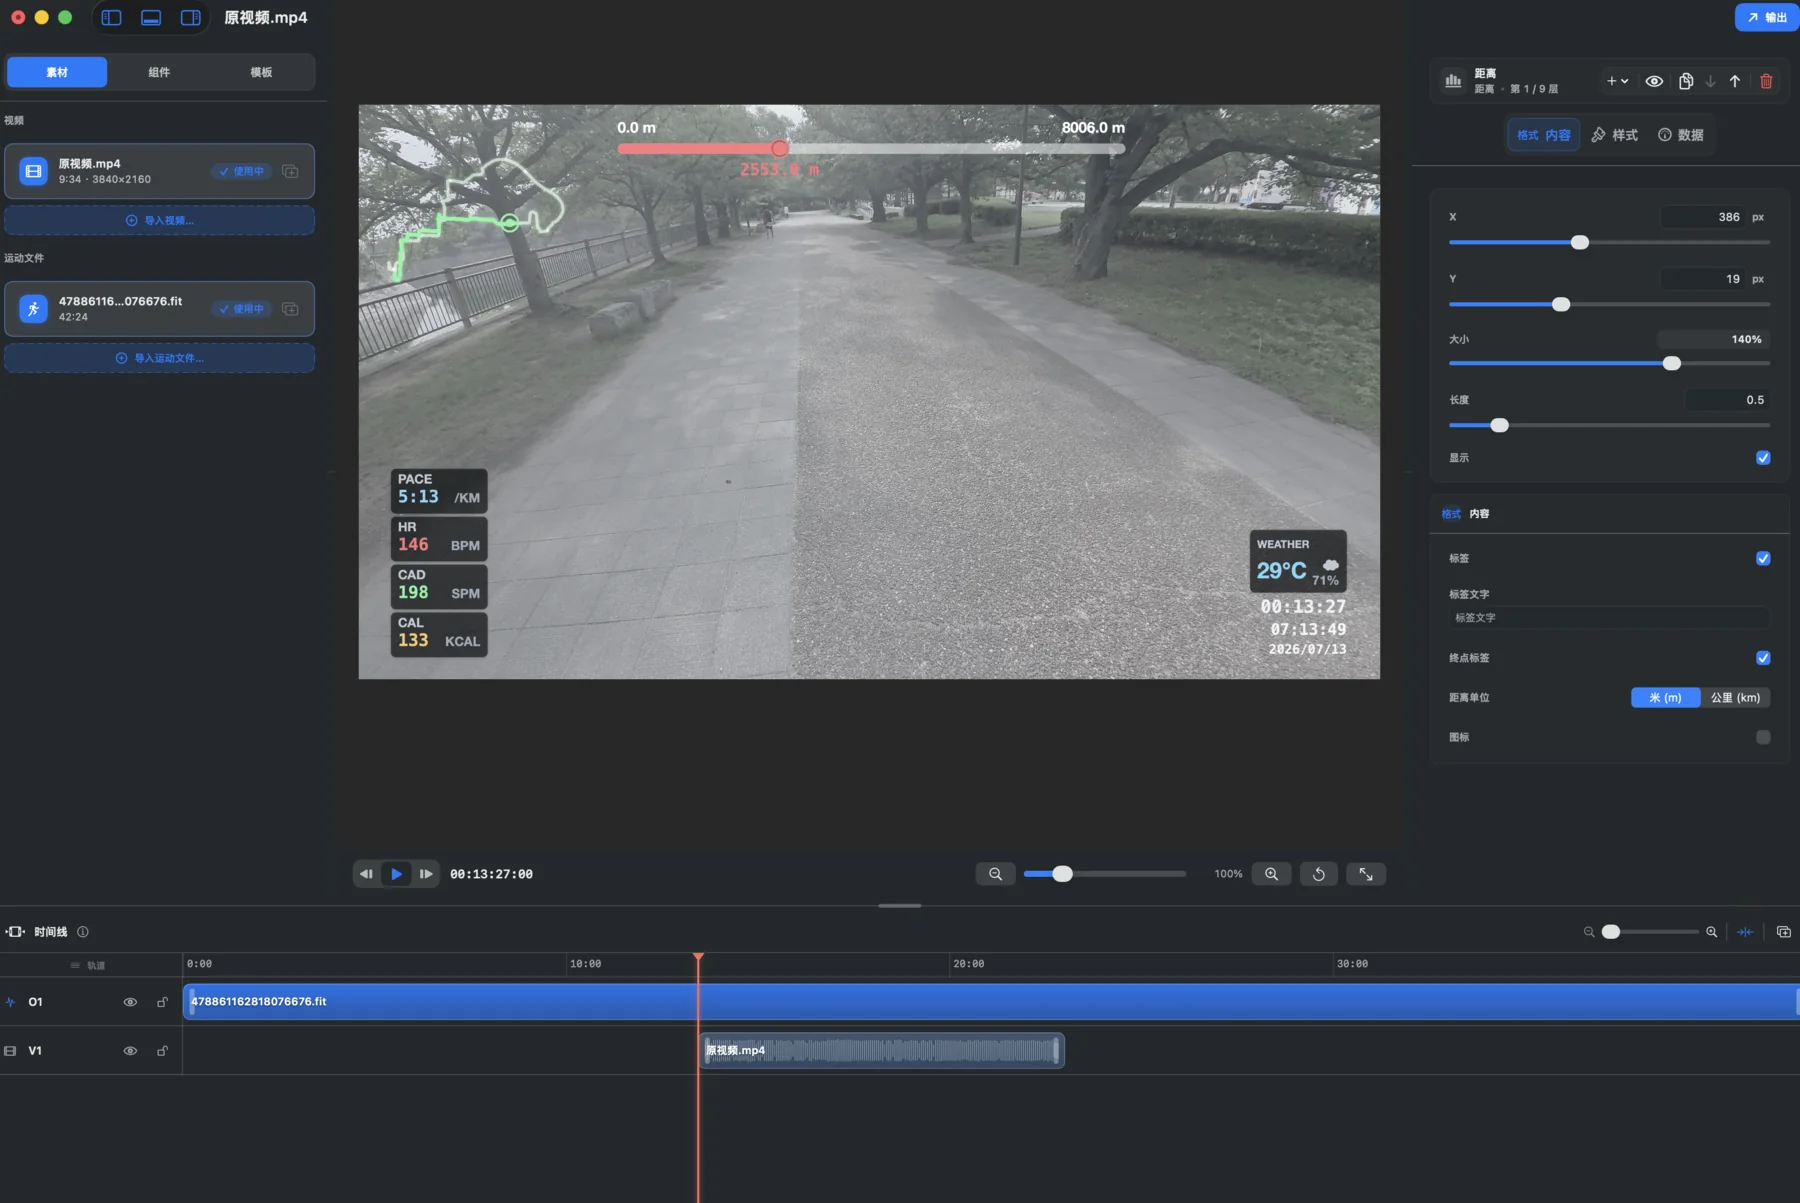
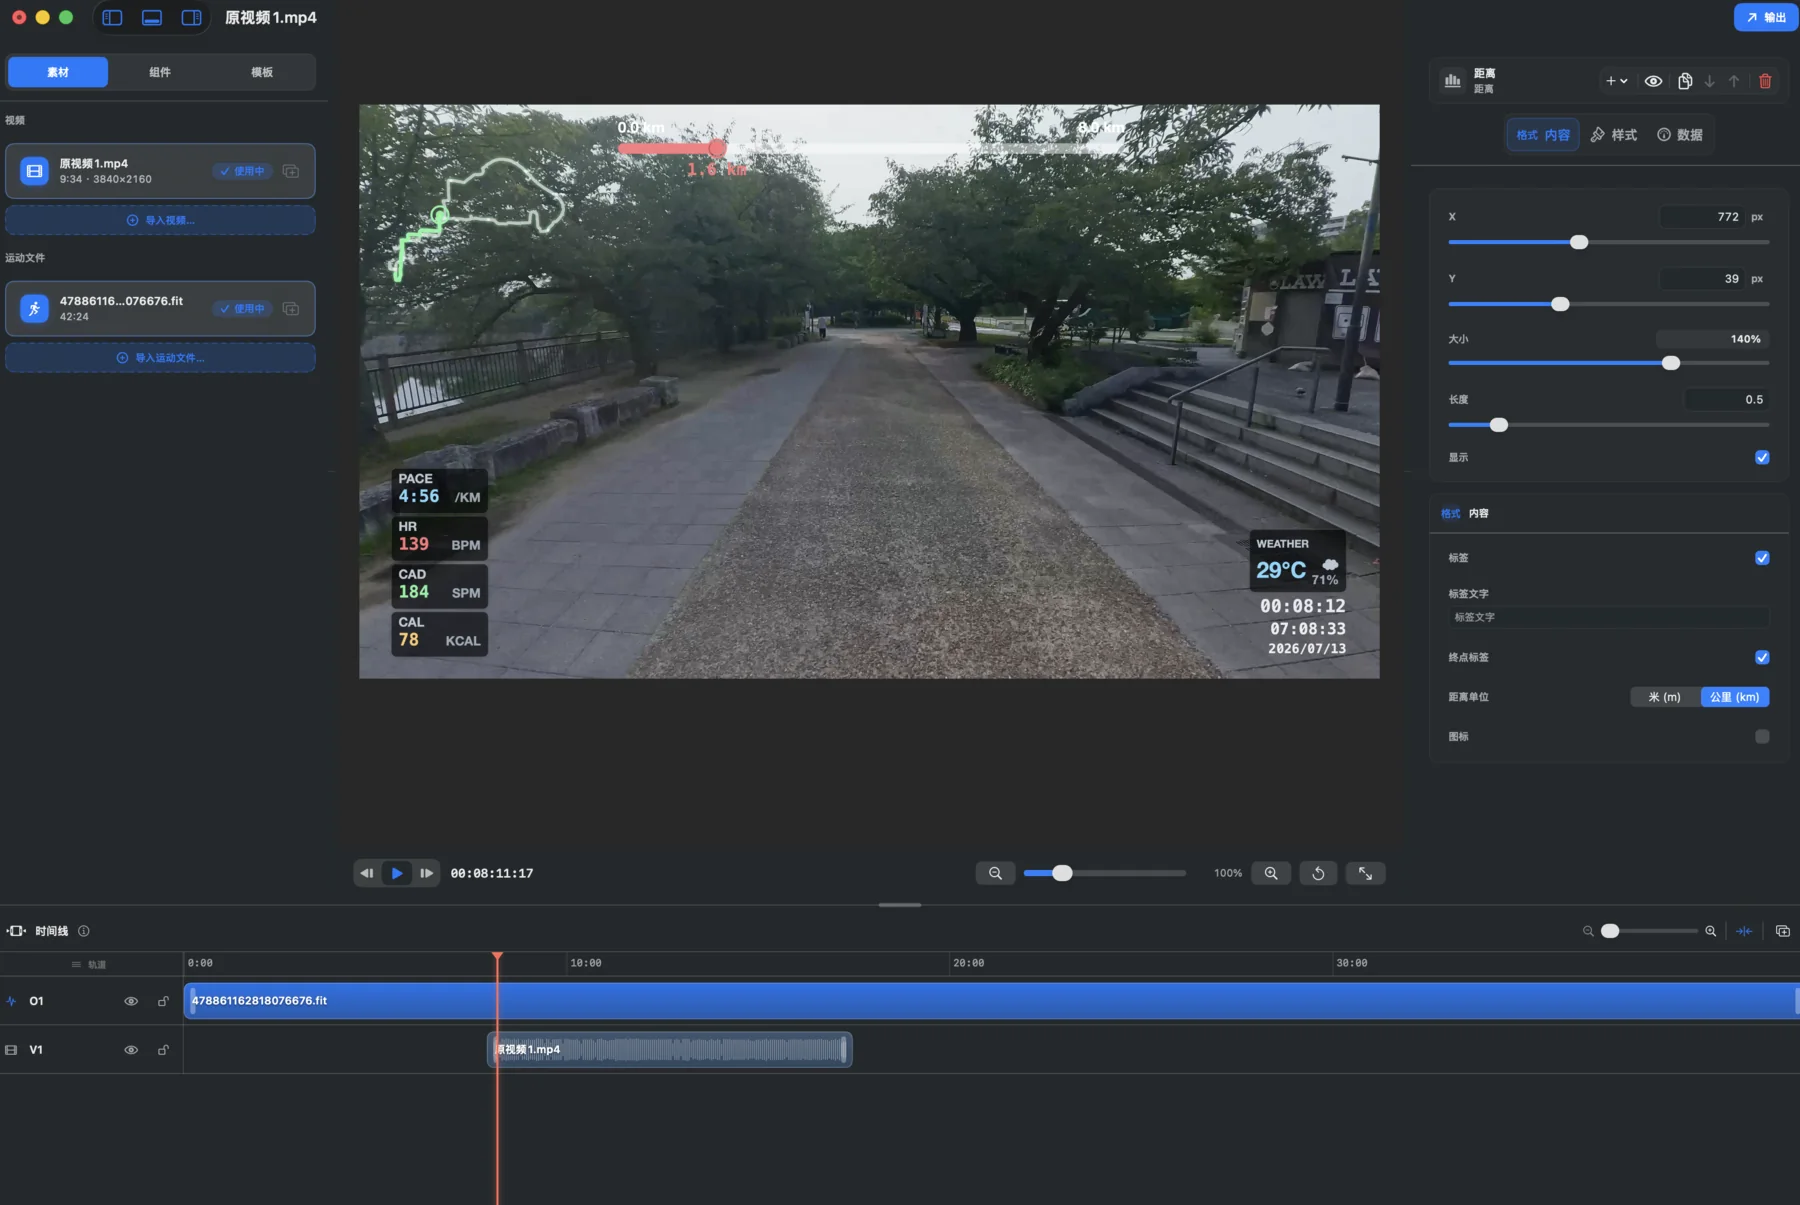
需求：替换官网最新界面截图｜实现：更新对应 WebP、效果图与使用说明链接

diff --git a/landing-page/guide/index.html b/landing-page/guide/index.html
@@ -57,7 +57,7 @@
           </div>
         </div>
         <figure class="guide-hero-media">
-          <img src="../assets/app-editor-714.webp" alt="DataLayer Studio 最新版编辑界面" width="1800" height="1203" fetchpriority="high">
+          <img src="../assets/app-editor-714.webp" alt="DataLayer Studio 最新版编辑界面" width="1800" height="1205" fetchpriority="high">
         </figure>
       </section>
 
@@ -91,7 +91,7 @@
           </ol>
         </div>
         <figure class="guide-media">
-          <img src="../assets/guide-import-714.webp" alt="导入视频后继续选择运动文件" width="1800" height="1210" loading="lazy">
+          <img src="../assets/guide-import-714.webp" alt="导入视频后继续选择运动文件" width="1800" height="1207" loading="lazy">
           <figcaption>视频导入后可直接继续选择对应的 FIT 或 GPX 文件。</figcaption>
         </figure>
       </section>
@@ -108,7 +108,7 @@
           </ol>
         </div>
         <figure class="guide-media">
-          <img src="../assets/app-editor-714.webp" alt="视频与运动数据导入后的编辑界面" width="1800" height="1203" loading="lazy">
+          <img src="../assets/app-editor-714.webp" alt="视频与运动数据导入后的编辑界面" width="1800" height="1205" loading="lazy">
           <figcaption>O1 为运动数据轨道，V1 为视频轨道。</figcaption>
         </figure>
       </section>
@@ -128,7 +128,7 @@
           <p class="guide-note">使用播放、逐帧和缩放控件检查整段视频中的位置与可读性。</p>
         </div>
         <figure class="guide-media">
-          <img src="../assets/app-components-714.webp" alt="DataLayer Studio 组件面板和图层检查器" width="1800" height="1206" loading="lazy">
+          <img src="../assets/app-components-714.webp" alt="DataLayer Studio 组件面板和图层检查器" width="1800" height="1201" loading="lazy">
           <figcaption>组件库、预览画布和检查器可以同时操作。</figcaption>
         </figure>
       </section>
@@ -147,7 +147,7 @@
           <p class="guide-note">应用模板后，仍可继续调整组件的位置、大小、内容、样式和数据来源。</p>
         </div>
         <figure class="guide-media">
-          <img src="../assets/guide-templates-714.webp" alt="DataLayer Studio 模板面板" width="1800" height="1206" loading="lazy">
+          <img src="../assets/guide-templates-714.webp" alt="DataLayer Studio 模板面板" width="1800" height="1202" loading="lazy">
           <figcaption>保存当前布局后，可在其他项目中直接复用。</figcaption>
         </figure>
       </section>
@@ -166,7 +166,7 @@
           </ol>
         </div>
         <figure class="guide-media">
-          <img src="../assets/guide-timeline-714.webp" alt="时间线片段开始时间设置" width="1800" height="1205" loading="lazy">
+          <img src="../assets/guide-timeline-714.webp" alt="时间线片段开始时间设置" width="1800" height="1198" loading="lazy">
           <figcaption>通过拖动片段或输入开始时间完成精确对齐。</figcaption>
         </figure>
       </section>

diff --git a/landing-page/index.html b/landing-page/index.html
@@ -44,7 +44,7 @@
         <a href="#workflow" data-i18n="nav.workflow">工作流</a>
         <a href="#features" data-i18n="nav.features">功能</a>
         <a href="#output" data-i18n="nav.output">输出</a>
-        <a href="guide/" data-i18n="nav.guide">使用说明</a>
+        <a href="guide/index.html" data-i18n="nav.guide">使用说明</a>
         <a href="#pricing" data-i18n="nav.pricing">购买</a>
       </nav>
       <div class="header-actions">
@@ -132,7 +132,7 @@
               alt="DataLayer Studio 在视频上预览跑步配速、心率、轨迹、时间等数据层"
               data-i18n-attr="alt:hero.visualAlt"
               width="1800"
-              height="1203"
+              height="1205"
               fetchpriority="high"
             >
           </div>
@@ -163,7 +163,7 @@
               alt="DataLayer Studio 的编辑器、预览画布、检查器和多轨时间线"
               data-i18n-attr="alt:workflow.visualAlt"
               width="1800"
-              height="1203"
+              height="1205"
             >
           </figure>
           <ol class="steps">
@@ -239,7 +239,7 @@
               alt="DataLayer Studio 的组件浏览器、预览画布、检查器和多轨时间线"
               data-i18n-attr="alt:features.visualAlt"
               width="1800"
-              height="1206"
+              height="1201"
               loading="lazy"
             >
           </figure>
